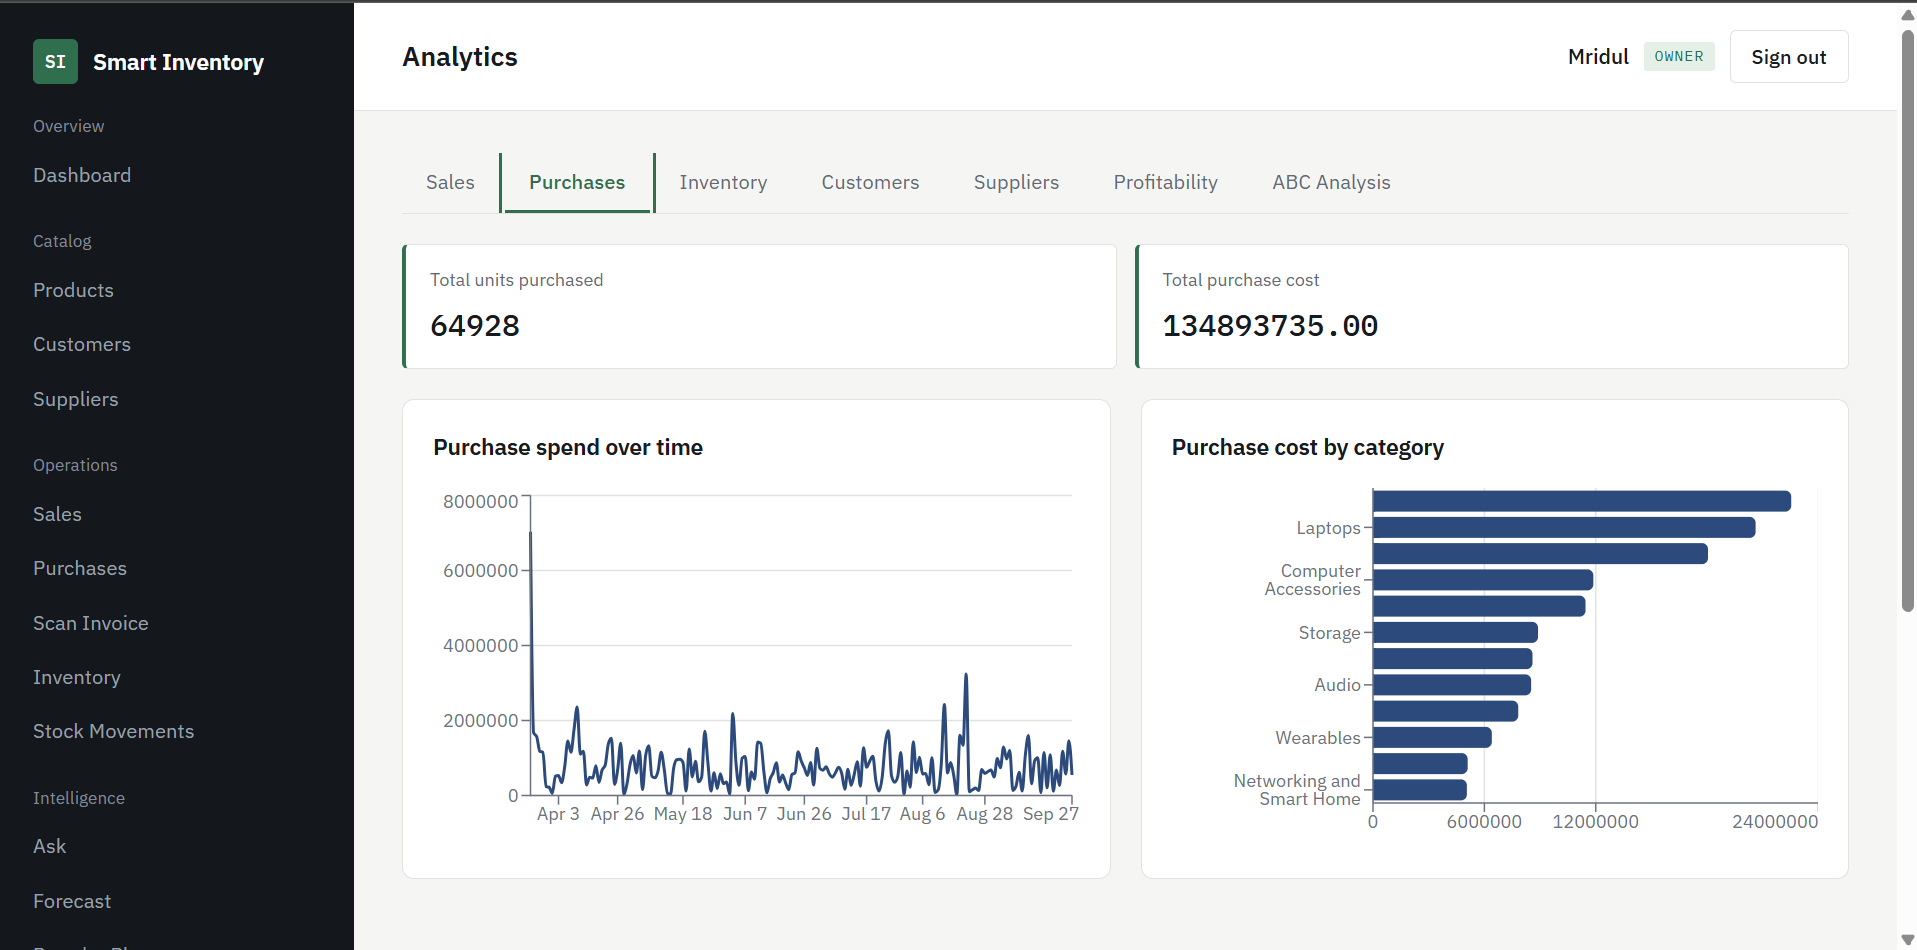
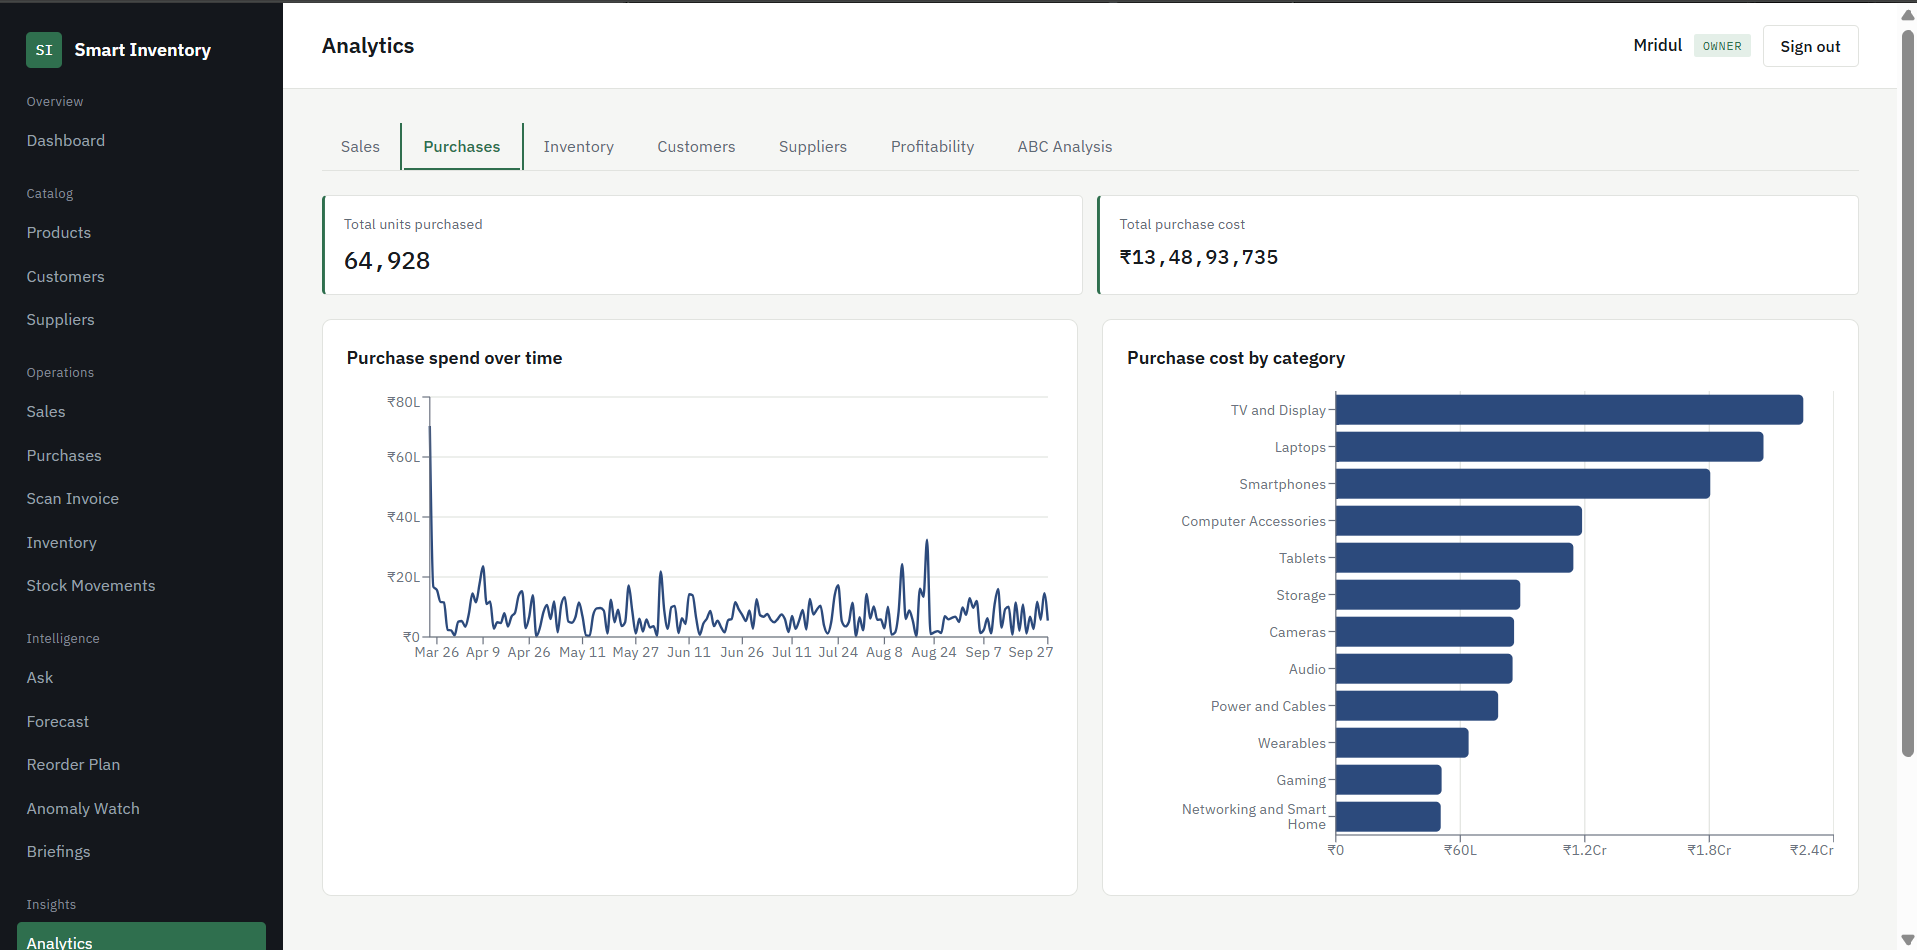
Date and formatting

diff --git a/README.md b/README.md
@@ -122,8 +122,9 @@ A small shop, say an electronics store with a few dozen to a few hundred product
 
 | Analytics | Reports |
 |---|---|
-| ![Analytics: sales](docs/screenshots/analytics-sales.png) | ![Reports](docs/screenshots/reports.png) |
-| ![Analytics: inventory](docs/screenshots/analytics-inventory.png) | ![Excel export: profit by product](docs/screenshots/report-excel-export.png) |
+| ![Analytics: sales](docs/screenshots/analytics-sales.png) | ![Reports: profit and loss by category](docs/screenshots/reports.png) |
+| ![Analytics: profitability by product](docs/screenshots/analytics-profitability.png) | ![Excel export: profit by product](docs/screenshots/report-excel-export.png) |
+| ![Analytics: inventory](docs/screenshots/analytics-inventory.png) | ![Analytics: purchases](docs/screenshots/analytics-purchases.png) |
 
 ### 3. Keeping sensitive figures away from the counter: roles and security
 
@@ -182,12 +183,12 @@ With product names written the way suppliers print them, the matcher recognises 
 - **Receipts:** a PDF receipt for any sale.
 
 <details>
-<summary><b>More screenshots:</b> sales, purchases, stock ledger, receipt, purchase analytics</summary>
+<summary><b>More screenshots:</b> sales, purchases, stock ledger, dashboard lists, receipt</summary>
 
 | | |
 |---|---|
 | ![Sales](docs/screenshots/sales.png) | ![Purchases](docs/screenshots/purchases.png) |
-| ![Stock movements](docs/screenshots/stock-movements.png) | ![Analytics: purchases](docs/screenshots/analytics-purchases.png) |
+| ![Stock movements](docs/screenshots/stock-movements.png) | ![Dashboard: needs attention and top sellers](docs/screenshots/dashboard-panels.png) |
 
 <img src="docs/screenshots/receipt.png" alt="Sale receipt" width="260">
 
